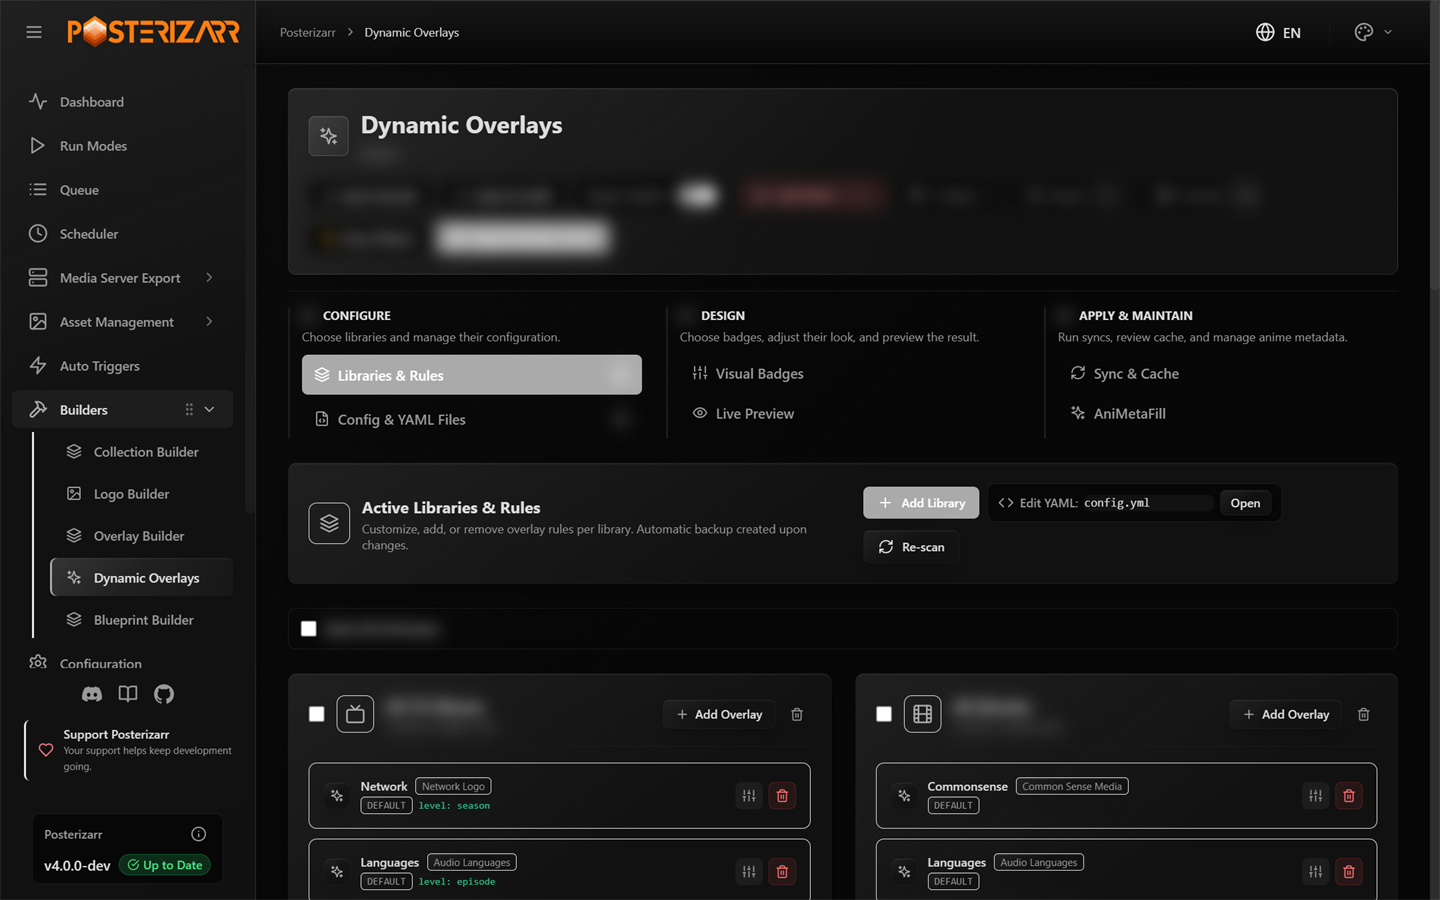
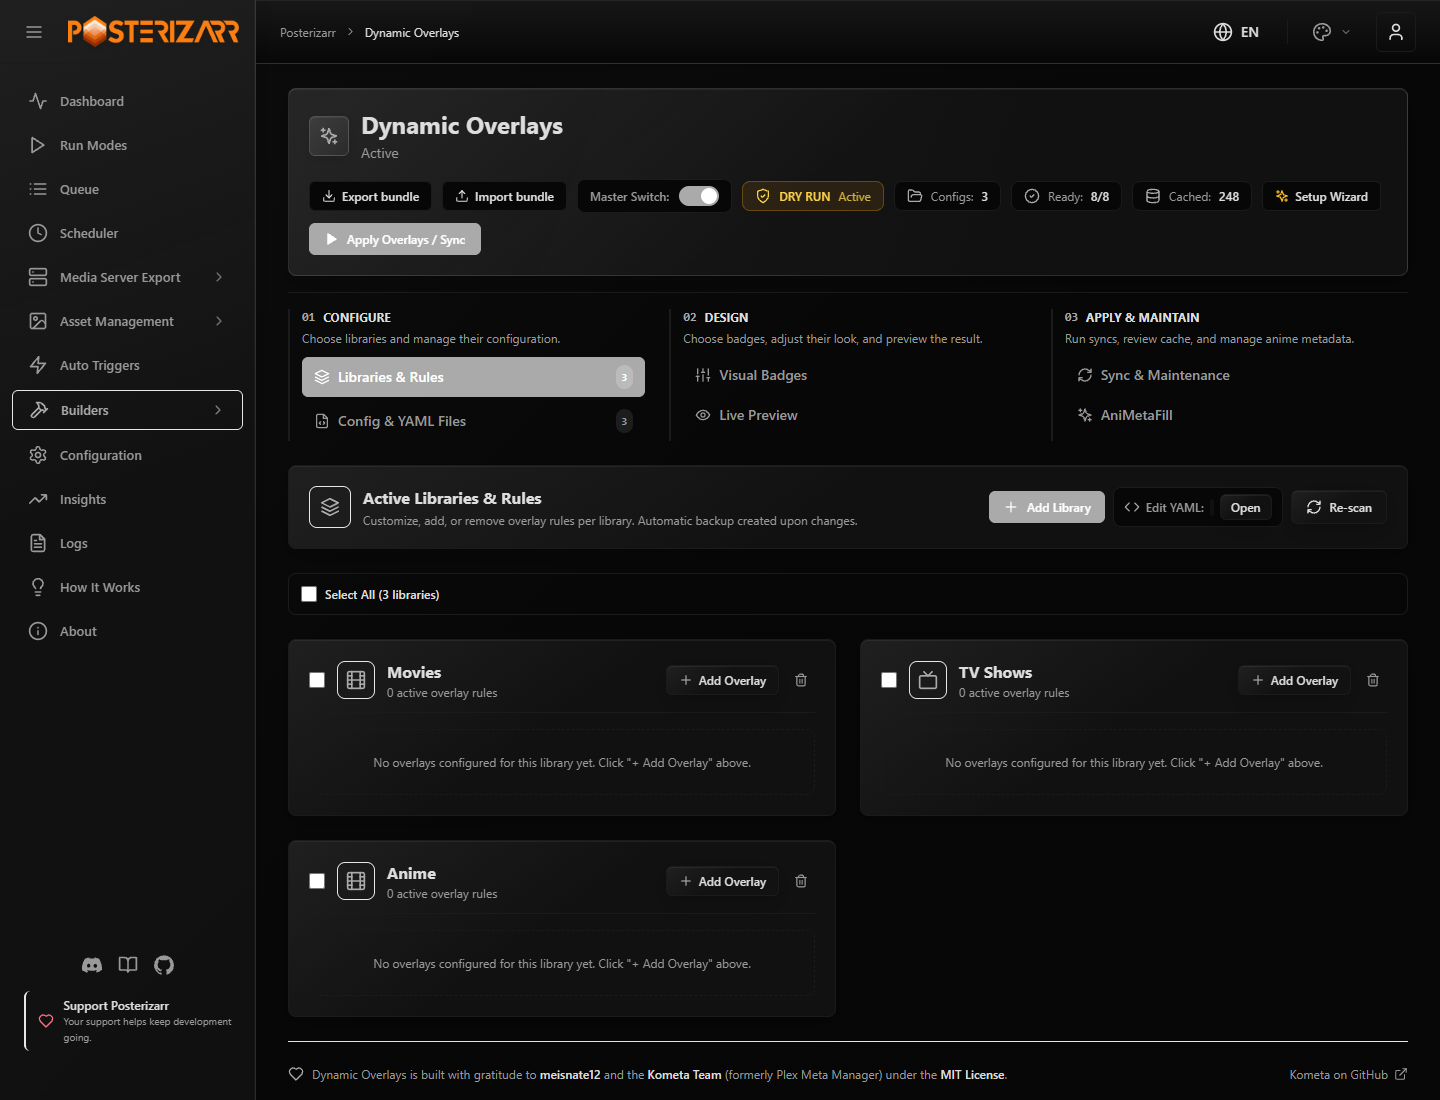
Allow forced recreation of unknown-text titlecards
Add a confirmed, single-episode override for unknown previous text when the recorded source is textless, while preserving queue and safety checks. Update translations and document the title review and maintenance views with refreshed screenshots.

diff --git a/webui/frontend/src/components/EpisodeTitleReview.jsx b/webui/frontend/src/components/EpisodeTitleReview.jsx
@@ -188,9 +188,12 @@ export default function EpisodeTitleReview({ enabled, dryRun }) {
                   {entry.reason ? text(`reasons.${entry.reason}`) : text("ready")}</p>
                   <p className="mt-1 text-theme-muted">{entry.requires_review ? text("historical") : text("future")}</p>
                   {entry.last_error && <p className="mt-1 text-red-500">{text("errors.not_completed")}</p>}</td>
-                <td className="px-2 py-3"><button type="button" className="flex h-8 w-8 items-center justify-center rounded-lg border border-theme text-theme-text hover:bg-theme-hover disabled:opacity-40"
-                  aria-label={text("rebuildOne")} title={text("rebuildOne")} disabled={!canRebuild || entry.status !== "ready"}
-                  onClick={() => setConfirmation({ candidate_ids: [entry.candidate_id], count: 1 })}><RotateCcw className="h-4 w-4" /></button></td>
+                <td className="px-2 py-3"><button type="button" className={`flex h-8 w-8 items-center justify-center rounded-lg border hover:bg-theme-hover disabled:opacity-40 ${entry.force_recreatable ? "border-amber-500/60 text-amber-500" : "border-theme text-theme-text"}`}
+                  aria-label={text(entry.force_recreatable ? "forceOne" : "rebuildOne")} title={text(entry.force_recreatable ? "forceOne" : "rebuildOne")}
+                  disabled={!canRebuild || (entry.status !== "ready" && !entry.force_recreatable)}
+                  onClick={() => setConfirmation({ candidate_ids: [entry.candidate_id], count: 1,
+                    force_unknown_text: Boolean(entry.force_recreatable), episode: `${entry.parent_title || entry.folder} ${coordinates}`, title: entry.title })}>
+                  <RotateCcw className="h-4 w-4" /></button></td>
               </tr>;
             })}
             {!data.entries.length && <tr><td colSpan={7} className="p-8 text-center text-theme-muted">{loading ? text("loading") : text("empty")}</td></tr>}
@@ -205,10 +208,11 @@ export default function EpisodeTitleReview({ enabled, dryRun }) {
         </div>
       </div>
       <ConfirmDialog isOpen={Boolean(confirmation)} onClose={() => setConfirmation(null)} type="warning"
-        title={text("confirmTitle")} message={text("confirmMessage", { count: confirmation?.count || 0 })}
-        confirmText={text("confirmAction")} onConfirm={() => {
+        title={text(confirmation?.force_unknown_text ? "forceTitle" : "confirmTitle")}
+        message={confirmation?.force_unknown_text ? text("forceMessage", { episode: confirmation.episode, title: confirmation.title }) : text("confirmMessage", { count: confirmation?.count || 0 })}
+        confirmText={text(confirmation?.force_unknown_text ? "forceAction" : "confirmAction")} onConfirm={() => {
           if (!confirmation || !canRebuild) return;
-          const { count, ...selection } = confirmation;
+          const { count, episode, title, ...selection } = confirmation;
           post("rebuild", { ...selection, confirmed: true });
         }} />
     </section>

diff --git a/webui/backend/asset_title_changes.py b/webui/backend/asset_title_changes.py
@@ -76,6 +76,16 @@ def _same_title_snapshot(previous, current):
         _same_episode_title(old, new) for old, new in zip(previous_values, current_values))
 
 
+def _can_force_unknown_text(job):
+    if job.get("reason") != "unknown_text" or not job.get("source_textless") or _placeholder(str(job.get("title") or "")):
+        return False
+    try:
+        source = urlsplit(str(job.get("source") or "").strip())
+        return bool(source.scheme in ("http", "https") and source.hostname and not source.username and not source.password)
+    except ValueError:
+        return False
+
+
 class AssetTitleChanges:
     def __init__(self, base_dir, assets_dir, library_folders=True):
         self.base_dir = Path(base_dir)
@@ -186,6 +196,7 @@ class AssetTitleChanges:
                              "server_url": server_url.rstrip("/"),
                              "item_id": str(item["id"]), "asset_path": str(path), "titles": titles,
                              "source": source, "library": library_name,
+                             "source_textless": str(record.get("Language") or "").casefold() == "textless",
                              "folder": str(record["Rootfolder"]), "media_type": "episode",
                              "parent_id": str(item.get("parent_id") or item["id"]),
                              "poster_type": "titlecard",
@@ -215,15 +226,18 @@ class AssetTitleChanges:
         rows = [row for row in rows if not _same_episode_title(row.get("old_title"), row.get("title")) and
             (not search or search in " ".join(str(row.get(key) or "") for key in ("library", "parent_title", "folder", "old_title", "title")).casefold())]
         return {"total": len(rows), "eligible": sum(row["status"] == "ready" for row in rows),
-                "entries": [{key: value for key, value in row.items() if key not in ("source", "asset_path", "server_url", "server_key", "titles")}
+                "entries": [{**{key: value for key, value in row.items() if key not in ("source", "asset_path", "server_url", "server_key", "titles")},
+                             "force_recreatable": _can_force_unknown_text(row)}
                             for row in rows[offset:offset + limit]]}
 
-    def candidate_jobs(self, candidate_ids=None, search="", all_eligible=False):
+    def candidate_jobs(self, candidate_ids=None, search="", all_eligible=False, force_unknown_text=False):
         with closing(sqlite3.connect(self.database)) as connection:
             rows = [json.loads(row[0]) for row in connection.execute("SELECT payload FROM episode_title_candidates ORDER BY library_name, asset_path")]
         selected = set(candidate_ids or [])
         search = search.strip().casefold()
-        return [row for row in rows if row["status"] == "ready" and not _same_episode_title(row.get("old_title"), row.get("title")) and
+        return [{**row, "force_unknown_text": bool(force_unknown_text and row["status"] != "ready")} for row in rows
+            if (row["status"] == "ready" or (force_unknown_text and row["candidate_id"] in selected and _can_force_unknown_text(row)))
+            and not _same_episode_title(row.get("old_title"), row.get("title")) and
                 (row["candidate_id"] in selected or (all_eligible and (not search or search in " ".join(str(row.get(key) or "") for key in ("library", "parent_title", "folder", "old_title", "title")).casefold())))]
 
     def record_failure(self, job, reason):
@@ -234,11 +248,12 @@ class AssetTitleChanges:
                 payload["last_error"] = reason
                 connection.execute("UPDATE episode_title_candidates SET payload = ? WHERE candidate_id = ?", (json.dumps(payload), job["candidate_id"]))
 
-    def candidate_job(self, candidate_id):
+    def candidate_job(self, candidate_id, force_unknown_text=False):
         with closing(sqlite3.connect(self.database)) as connection:
-            row = connection.execute("SELECT payload FROM episode_title_candidates WHERE candidate_id = ? AND status = 'ready'", (candidate_id,)).fetchone()
+            row = connection.execute("SELECT payload FROM episode_title_candidates WHERE candidate_id = ?", (candidate_id,)).fetchone()
         job = json.loads(row[0]) if row else None
-        return job if job and not _same_episode_title(job.get("old_title"), job.get("title")) else None
+        eligible = job and (job["status"] == "ready" or (force_unknown_text and _can_force_unknown_text(job)))
+        return job if eligible and not _same_episode_title(job.get("old_title"), job.get("title")) else None
 
     def acknowledge(self, job):
         with closing(sqlite3.connect(self.database)) as connection, connection:
@@ -470,7 +485,7 @@ class EpisodeTitleReview:
             self._update(running=False)
             self.operation_lock.release()
 
-    async def start_rebuild(self, base_dir, config_path, candidate_ids=None, all_eligible=False, search=""):
+    async def start_rebuild(self, base_dir, config_path, candidate_ids=None, all_eligible=False, search="", force_unknown_text=False):
         from dynamic_overlays_service import get_dynamic_overlays_settings
 
         settings = get_dynamic_overlays_settings()
@@ -480,28 +495,30 @@ class EpisodeTitleReview:
             raise ValueError("rebuild_disabled")
         if bool(candidate_ids) == bool(all_eligible):
             raise ValueError("invalid_selection")
+        if force_unknown_text and (all_eligible or len(candidate_ids or []) != 1):
+            raise ValueError("invalid_selection")
         if _review_queue is None or _review_queue_runner is None:
             raise RuntimeError("unavailable")
         self._reserve("scanning")
         try:
             monitor = await asyncio.to_thread(create_title_monitor, base_dir, config_path)
-            selected = await asyncio.to_thread(monitor.candidate_jobs, candidate_ids, search, all_eligible)
+            selected = await asyncio.to_thread(monitor.candidate_jobs, candidate_ids, search, all_eligible, force_unknown_text)
             if not selected:
                 raise ValueError("nothing_selected")
             self._update(total=len(selected))
-            self.task = asyncio.create_task(self._run_rebuild(base_dir, config_path, [row["candidate_id"] for row in selected]))
+            self.task = asyncio.create_task(self._run_rebuild(base_dir, config_path, [row["candidate_id"] for row in selected], force_unknown_text))
             return self.status()
         except Exception:
             self._update(running=False, phase="failed")
             self.operation_lock.release()
             raise
 
-    async def _run_rebuild(self, base_dir, config_path, candidate_ids):
+    async def _run_rebuild(self, base_dir, config_path, candidate_ids, force_unknown_text=False):
         from dynamic_overlays_service import get_dynamic_overlays_settings
 
         try:
             monitor, automatic, scanned, errors = await _scan_title_changes(base_dir, config_path)
-            jobs = await asyncio.to_thread(monitor.candidate_jobs, candidate_ids)
+            jobs = await asyncio.to_thread(monitor.candidate_jobs, candidate_ids, force_unknown_text=force_unknown_text)
             jobs = [job for job in jobs if job["server_key"] in scanned]
             self._update(phase="rebuilding", scan_errors=errors, skipped=len(candidate_ids) - len(jobs))
 

diff --git a/webui/backend/queue_manager.py b/webui/backend/queue_manager.py
@@ -70,12 +70,17 @@ class QueueManager:
                             AND json_extract(overlay_params, '$.episode_title_candidate_id') = ?
                             ORDER BY id LIMIT 1""", (job["candidate_id"],)).fetchone()
                         if existing:
+                            if job.get("force_unknown_text") is True:
+                                conn.execute("""UPDATE queue_items SET overlay_params =
+                                    json_set(overlay_params, '$.force_unknown_text', json('true'))
+                                    WHERE id = ? AND status = 'pending'""", (existing[0],))
                             item_ids.append(existing[0])
                             continue
                         parameters = {"episode_title_candidate_id": job["candidate_id"], "asset_type": "titlecard",
                                       "title_text": job["title"], "episode_title": job["title"],
                                       "library_name": job["library"], "folder_name": job["folder"],
                                       "season_number": job["season"], "episode_number": job["episode"],
+                                      "force_unknown_text": job.get("force_unknown_text") is True,
                                       "process_with_overlays": True}
                         cursor = conn.execute("""INSERT INTO queue_items
                             (asset_path, source_type, source_data, overlay_params, status)

diff --git a/webui/backend/main.py b/webui/backend/main.py
@@ -18535,7 +18535,8 @@ async def process_queued_episode_title(item):
 
     monitor = await asyncio.to_thread(create_title_monitor, BASE_DIR, CONFIG_PATH)
     candidate_id = item.get("overlay_params", {}).get("episode_title_candidate_id")
-    job = await asyncio.to_thread(monitor.candidate_job, candidate_id)
+    force_unknown_text = item.get("overlay_params", {}).get("force_unknown_text") is True
+    job = await asyncio.to_thread(monitor.candidate_job, candidate_id, force_unknown_text=force_unknown_text)
     if job is None:
         raise ValueError("episode_title_candidate_unavailable")
     try:
@@ -20819,6 +20820,7 @@ class EpisodeTitleRebuildRequest(BaseModel):
     all_eligible: bool = False
     search: str = Field(default="", max_length=200)
     confirmed: bool = False
+    force_unknown_text: bool = False
 
 
 def ensure_episode_title_review_idle():
@@ -20874,6 +20876,7 @@ async def rebuild_episode_title_changes(request: EpisodeTitleRebuildRequest):
         job = await episode_title_review.start_rebuild(
             BASE_DIR, CONFIG_PATH, candidate_ids=request.candidate_ids,
             all_eligible=request.all_eligible, search=request.search,
+            force_unknown_text=request.force_unknown_text,
         )
         return {"success": True, "job": job}
     except ValueError as error:

diff --git a/docs/dynamic_overlays.md b/docs/dynamic_overlays.md
@@ -259,12 +259,13 @@ Downloads can exceed 1 GB compressed; allow several GB of free disk space and
 time for the initial indexing, especially on a NAS. Files are streamed to disk
 and imported in bounded batches, not loaded entirely into RAM.
 
-![Dynamic Overlays Sync and Cache controls](images/22-overlay-sync-cache.png)
+![Dynamic Overlays Ratings Cache view](images/47-overlay-ratings-cache.png)
 
 *Navigate to **Builders > Dynamic Overlays > Sync & Maintenance > Ratings Cache**, then choose **Browse Ratings** to open Local IMDb Dataset and the ratings cache.*
 
-*Read-only capture of an existing imported index. Its count and timestamp are
-installation-specific, not download requirements or a performance benchmark.*
+*Development-build screenshot with illustrative cache counts. The local IMDb
+dataset controls are inside **Browse Ratings**, not on this overview. The counts
+shown are example data, not download requirements or a performance benchmark.*
 
 The index and explicit episode mappings are stored in
 `database/imdb_dataset.db` under the normal application data directory. Only
@@ -634,7 +635,7 @@ Generated AniMetaFill episode regexes include a numeric boundary so an episode s
 
 Navigate to **Builders $\to$ Dynamic Overlays** in the Posterizarr Web UI:
 
-### Background Change Detection & Dry Run
+### Sync & Maintenance Views
 The former **Sync & Cache** page is split into **Sync & Maintenance** views:
 
 | View | Contents | Direct Link |
@@ -647,6 +648,20 @@ The former **Sync & Cache** page is split into **Sync & Maintenance** views:
 
 The selected view is retained in the URL and local preference. The legacy
 `tab=cache` link opens Overlay Cache. Changing views does not stop running jobs.
+
+![Dynamic Overlays Synchronize view with separate maintenance tabs](images/22-overlay-sync-cache.png)
+
+*The Synchronize view contains sync controls, automatic application to new
+media, and the sync log. These development-build screenshots use illustrative
+libraries and counts; no live artwork jobs were run to create them.*
+
+#### Background Change Detection & Dry Run
+
+![Media Changes view showing background checks, interval, and Dry Run](images/44-overlay-media-changes.png)
+
+*Open **Sync & Maintenance > Media Changes** for Background Checking, its check
+interval, Automatic Overlay Resync, and Dry Run. The background-check description
+also covers optional episode-titlecard recreation.*
 
 - **Background Checking** controls whether media metadata is periodically checked for changes; it is enabled by default and checks hourly.
 - **Automatic Overlay Resync** controls whether detected changes start the overlay render pipeline.
@@ -680,6 +695,24 @@ and unknown or truncated historical text cannot be safely recreated automaticall
 Missing sources, textful sources, and placeholder titles remain visible with a
 blocking reason. Unmatched episodes and missing image files are not guessed.
 
+If only the previous image text is unknown, the row can offer **Force recreate
+this episode titlecard**. This explicit single-episode action requires a stored
+HTTP(S) source marked **Textless** and a current non-placeholder episode title.
+Its separate warning confirms that the old text cannot be verified and that the
+existing titlecard will be replaced. It does not bypass missing/textful sources,
+Dry Run, the Master Switch, or episode/server validation. Unknown-text rows remain
+excluded from automatic recreation and ordinary selected/all-eligible actions.
+The explicit override is retained in the existing queue if the job is resumed.
+After updating from an earlier version, run **Compare titles** once to refresh
+source eligibility for already cached review entries.
+
+![Episode Title Review showing previous and current titles and eligibility reasons](images/45-episode-title-review.png)
+
+*Illustrative review records show one eligible title change, one missing source,
+and one placeholder title. Artwork thumbnails are existing published showcase
+examples, not results from a live title scan. Dry Run is on, so recreation actions
+are disabled while comparison remains available.*
+
 Title comparisons ignore uppercase/lowercase differences, including accented
 characters. Existing case-only candidates are hidden and removed by the next
 successful scan without rendering or uploading artwork. Displayed titles and
@@ -691,6 +724,11 @@ checkboxes, or choose **All eligible matches**. The all action includes every
 eligible result of the current search, not just the current page. Each action
 requires confirmation. Manual recreation does not require the automatic title
 option or Background Checking, but the Master Switch must be on and Dry Run off.
+
+![Confirmation dialog before recreating a selected episode titlecard](images/48-episode-title-recreate-confirmation.png)
+
+*With Dry Run off, single, selected, and all-eligible recreation actions require
+confirmation. This screenshot shows the dialog only; the example job was cancelled.*
 
 Confirmed recreation uses the existing **Asset Queue** and queue processor,
 not a separate rendering worker. The queue contains a dedicated episode-title
@@ -732,6 +770,15 @@ compatibility but now applies exclusively to episode titlecards.
 Progress is logged under `[TitleChanges]` in the backend log;
 rendering uses the existing manual-run log and targeted overlays use
 `DynamicOverlaysSync.log`.
+
+#### Overlay Cache View
+
+![Separate Overlay Cache view with cache statistics and recently updated artwork](images/46-overlay-cache.png)
+
+*Open **Sync & Maintenance > Overlay Cache** to inspect cache statistics,
+**Browse Cache**, and recently updated artwork. Ratings use the separate
+**Ratings Cache** view shown in the [Local IMDb Dataset](#local-imdb-dataset)
+section. Counts and listed updates in these screenshots are illustrative.*
 
 ### 0. Guided Onboarding Setup Wizard
 - **Zero Confusion Onboarding:** A friendly 4-step visual wizard guides new users through the engine's core concepts, eliminating manual reading.

diff --git a/docs/ui_guide.md b/docs/ui_guide.md
@@ -182,9 +182,18 @@ and response formats are in the [API reference](endpoints.md).
 
 *Choose **Live Preview** to inspect sample artwork and adjust badge placement. Previewing does not upload artwork.*
 
-![Dynamic Overlays Sync and Cache](images/22-overlay-sync-cache.png)
+![Dynamic Overlays Synchronize view with separate maintenance tabs](images/22-overlay-sync-cache.png)
 
-*Choose **Sync & Cache** to run a Dry Run or sync, inspect logs, and browse overlay and ratings caches.*
+*Choose **Sync & Maintenance** for the separate **Synchronize**, **Media Changes**,
+**Episode Title Review**, **Overlay Cache**, and **Ratings Cache** views. The
+screenshot shows Synchronize with Dry Run on and illustrative library counts.*
+
+![Episode Title Review with historical title differences and eligibility](images/45-episode-title-review.png)
+
+*Episode Title Review compares existing titlecards with current episode titles.
+The initial scan does not recreate artwork. These are sample review records;
+single, selected, and all-eligible recreation require confirmation and use the
+existing asset queue.*
 
 ![AniMetaFill settings](images/23-animetafill.png)
 

diff --git a/docs/capabilities.md b/docs/capabilities.md
@@ -56,9 +56,9 @@ conservatively, and let you correct episode IDs or season numbering locally.
 Successful local lookups avoid per-item provider requests; other sources and
 unresolved items can still need external providers.
 
-![Dynamic Overlays Sync and Cache controls](images/22-overlay-sync-cache.png)
+![Dynamic Overlays Ratings Cache view](images/47-overlay-ratings-cache.png)
 
-*Navigate to **Builders > Dynamic Overlays > Sync & Cache**, then choose **Browse Ratings** to open the local IMDb dataset and ratings cache.*
+*Navigate to **Builders > Dynamic Overlays > Sync & Maintenance > Ratings Cache**, then choose **Browse Ratings** to open the local IMDb dataset and ratings cache. The screenshot uses illustrative cache counts.*
 
 [Set up the local IMDb dataset](dynamic_overlays.md#local-imdb-dataset).
 The datasets are optional, require disk space for indexing, and are licensed by
